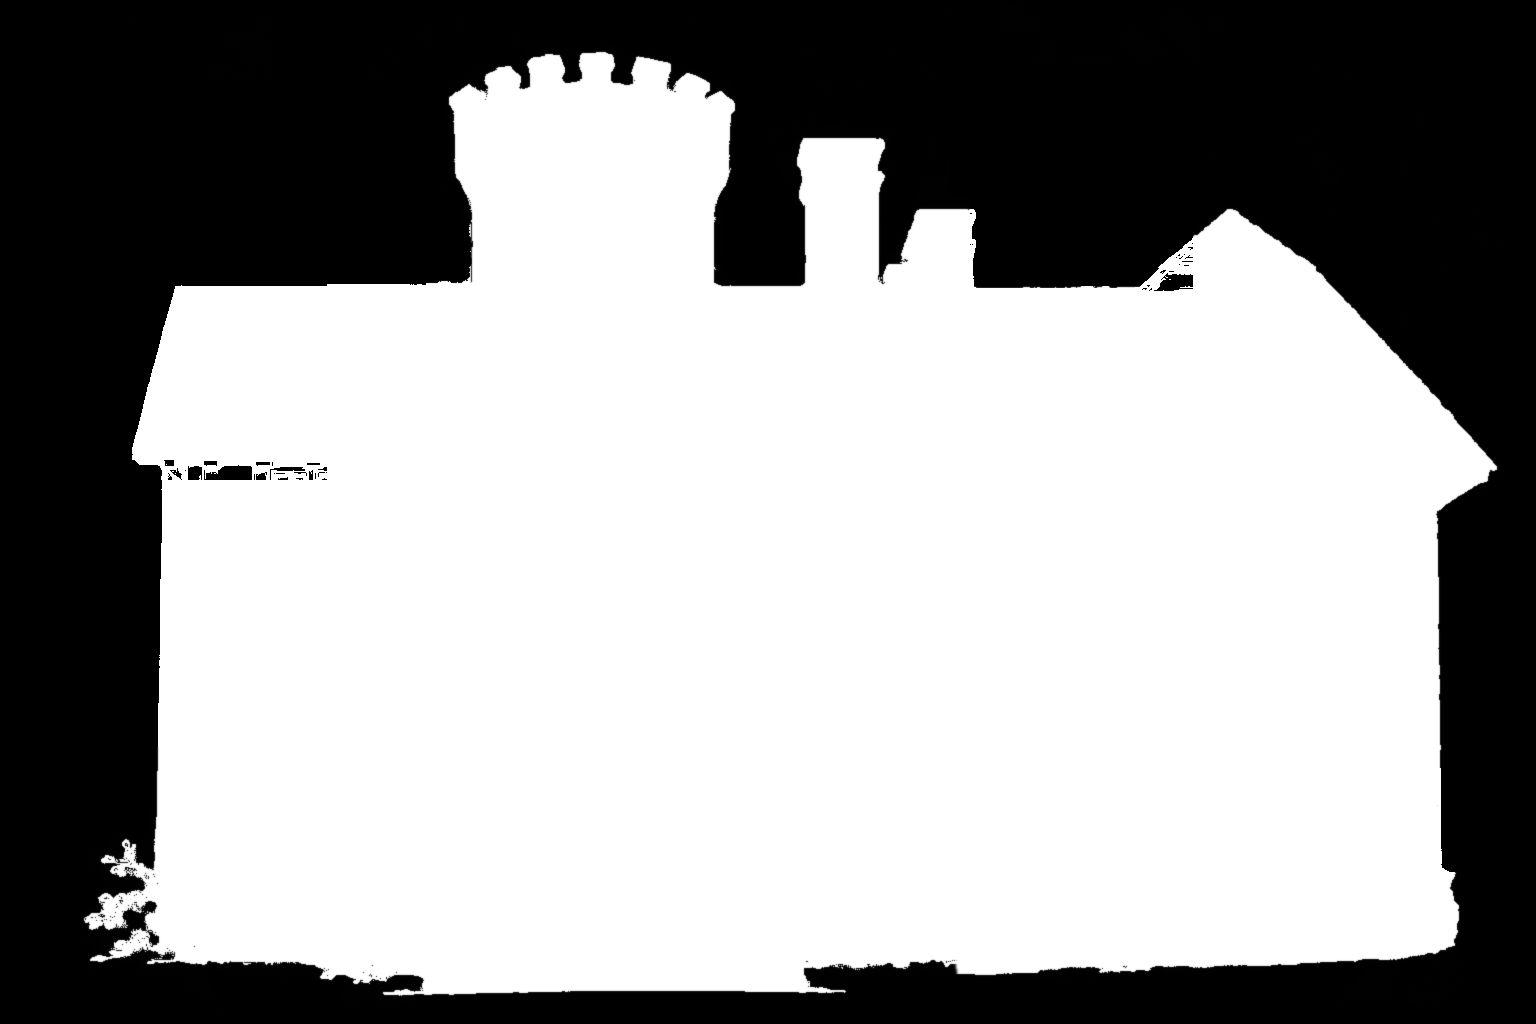
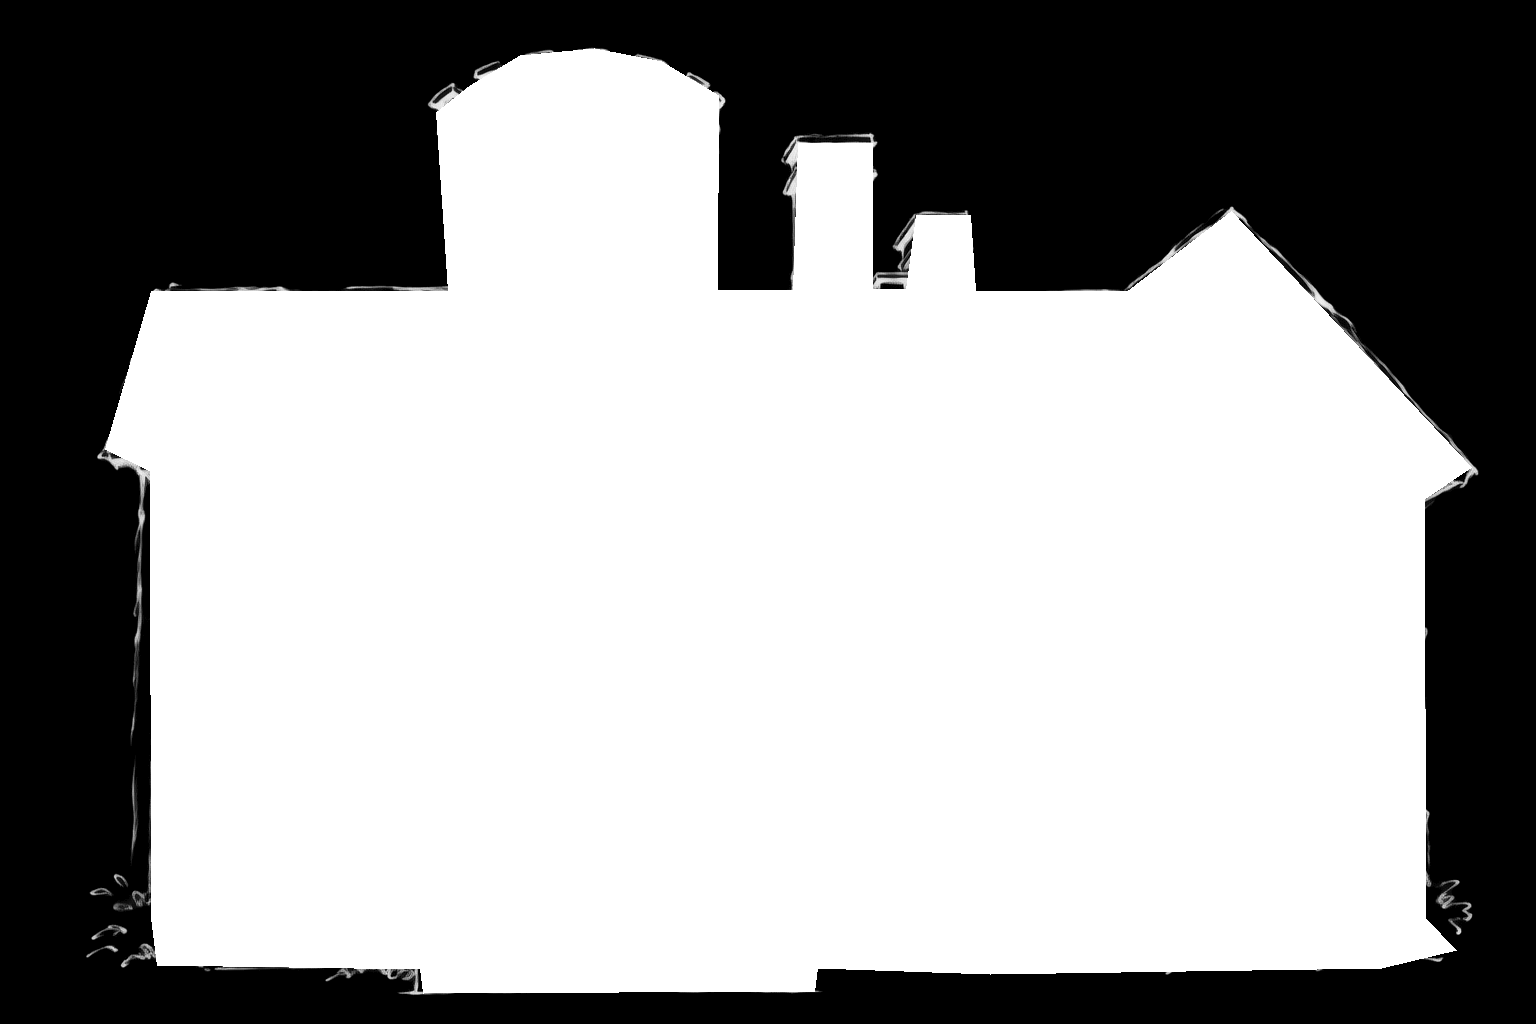
Integrate approved Greystone loose watercolor pair for build 125

diff --git a/artwork/greystone/README.md b/artwork/greystone/README.md
@@ -1,67 +1,44 @@
-## Current ink revision — build 124 candidate
+# Authoritative Greystone loose ink and watercolor
 
-The owner approved the new loose broken pen-work and requested implementation, followed
-by watercolor review. `loose-ink/` preserves the approved new ink, base, reserves, mask,
-composite and frozen hashes. `manifest.json` selects this as an `ink_override` for Home
-and Stops. Home adds the same transparent square padding without scaling.
+The owner approved the looser pen-and-ink drawing, then approved the new watercolor
+after reviewing the previous and new versions side by side. These five source layers
+now define the authoritative registered pair. The original owner-selected red-mill
+watercolor remains the sole style reference. Greystone photographs establish the
+subject architecture and colors.
 
-The prior approved watercolor still supplies the map and sketchbook. The older source
-layers below remain immutable for reproduction and rollback. The app currently displays
-two separately approved revisions; they are **not** a registered animation pair.
-The new registered watercolor proposal is outside the app pending visual approval.
-Do not use the prior watercolor with the new ink for a paint-reveal transition.
-Revert this revision's Git commit to restore build 123 artwork selection.
+The pair retains broken contours, uneven strokes, sparse surface description and
+loose foliage; the draped flag/pole and partially obscured divided-pane arch window
+remain. Earlier incidental roof details and side pipe removals remain in effect.
 
-# Authoritative Greystone artwork
+## App assets
 
-The owner approved the latest roof-repair review and requested app implementation.
-These five frozen source layers are the authoritative Greystone artwork. Prior
-Greystone illustrations and review variants are historical, not style authorities.
-The original owner-selected red-mill watercolor remains the sole style reference;
-the supplied Greystone photograph provided the subject architecture and colors.
-
-## Approved features
-
-- Rounded bushes partially obscure the lower-right arch window.
-- The arch contains a divided-pane window based on neighboring windows.
-- The original draped American flag and its pole are retained.
-- Marked incidental roof features, the right-side pipe and isolated twigs are removed.
-- Left roof coverage and right gable joins follow the approved repaired drawing.
-
-`manifest.json` records approval context, source hashes, full-canvas pixel hashes
-and the approved composite file hashes. Do not regenerate the ink or independently
-trim, resize or reposition any source layer.
-
-## Existing app slots
-
-| Slot | Approved content |
+| Asset | Approved content |
 | --- | --- |
-| `home-sketch-greystone` | Ink, centered with transparent padding to 1536 × 1536 |
-| `stop-ink-greystone` | Registered ink at 1536 × 1024 |
-| `sketchbook-greystone` | Registered watercolor at 1536 × 1024 |
-| `greystone-map-landmark` | The identical watercolor composite |
+| `home-sketch-greystone` | Ink, transparent padding to 1536 × 1536 |
+| `stop-ink-greystone` | Registered ink, 1536 × 1024 |
+| `sketchbook-greystone` | Registered watercolor, 1536 × 1024 |
+| `greystone-map-landmark` | Identical watercolor |
 
-Home's derivative is not a paint-reveal master. Use the original-size pair or the
-unchanged `INK_MASTER`, `WHITE_RESERVES`, `SUBJECT_BASE`, `WATERCOLOR_UNDERLAY` and
-shared `ARTWORK_MASK` for any future reveal work. No animation behavior is changed
-by this asset replacement. Light subject reserves remain distinct from transparency.
+Both originals share the same final alpha and unchanged pen layer. Home padding
+adds no scaling or cropping. `manifest.json` records source, raw ink/mask and approved
+composite hashes. Do not regenerate ink or independently trim, scale or reposition
+exports. For any future paint reveal, keep INK_MASTER, SUBJECT_BASE, WHITE_RESERVES
+and ARTWORK_MASK stationary; reveal only WATERCOLOR_UNDERLAY. WHITE_RESERVES is a
+frozen empty layer for this revision; light paint details are reserved in the underlay.
 
-Existing plaque-unlock rules, saved progress and image names are retained; photographs
-and AR recognition reference images are untouched. All other tour artwork is preserved.
-
-## Rebuild or verify
-
-With the Python dependencies in `requirements.txt` installed:
+## Reproduction and rollback
 
 ```sh
 python3 scripts/build-mill-artwork.py --landmark greystone
 python3 scripts/build-mill-artwork.py --landmark greystone --write
-python3 scripts/build-mill-artwork.py # Verify the retained Mill assets
 ```
 
-Default mode verifies without writing. Source hashes, exact composite pixels,
-matching alpha, sRGB interpretation, square Home padding and catalog registration
-are checked. Transparent RGB is preserved to match the approved exported files.
+The default verifies without writing. All four app slots must match reconstructed
+pixels, dimensions, sRGB and catalog registrations. `loose-ink/` preserves the prior
+ink-only implementation snapshot for provenance; there is no active ink override.
+Earlier complete pairs remain in Git history. Reverting this implementation commit
+restores the prior watercolor while retaining the already approved loose ink.
 
-The parent commit retains the previous app artwork for rollback. This candidate
-requires native build checks before publication and visual verification on iPhone.
+Build 125 candidate includes asset replacements only, with existing collection,
+recognition, animation, provider and navigation behavior preserved. Native Xcode
+compilation and iPhone visual checks remain pending before publication.

diff --git a/README.md b/README.md
@@ -1,3 +1,17 @@
+## Build 125 candidate — approved Greystone loose ink and watercolor pair
+
+The owner approved the new watercolor after a side-by-side comparison. It now replaces
+the map landmark and sketchbook watercolor, using the same frozen pen layer and final
+alpha as the already approved loose ink. All four Greystone slots reproduce the
+registered pair; Home uses transparent padding only. The temporary ink override is
+removed. Sources, hashes and rebuild instructions are in
+[artwork/greystone](artwork/greystone/README.md).
+
+Pixel, alpha, sRGB, Home padding and catalog checks pass for Greystone, Mill and Church.
+Existing saved progress, unlock rules, AR, routes, provider selection and animations
+are unchanged. Native Xcode compilation and iPhone visual checks remain pending.
+This candidate is not published; build 120 remains the published baseline.
+
 ## Build 124 candidate — approved looser Greystone ink
 
 Replaces Home and Stops Greystone ink with the owner-approved broken contours,
